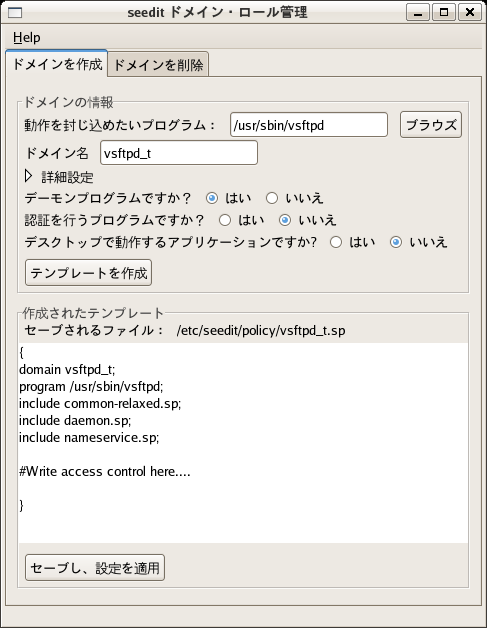
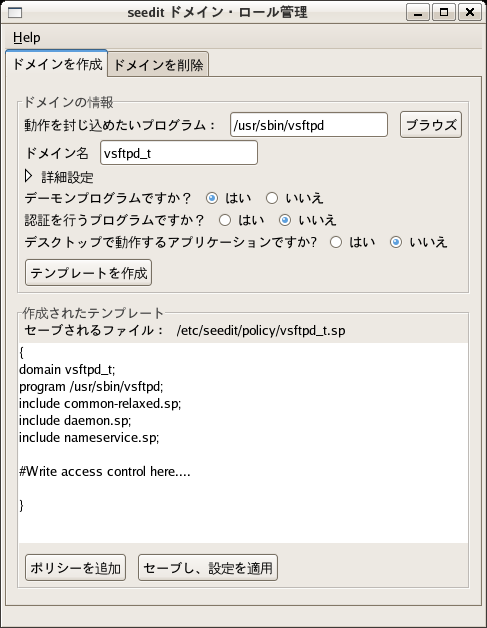
=

Changed region(s): [[0.0616, 0.8774, 0.5852, 0.9379]]

diff --git a/seedit-gui/seedit/ui/GUICommon.py b/seedit-gui/seedit/ui/GUICommon.py
@@ -489,10 +489,13 @@ class insertPolicyWindow(seeditCommon):
         def getInsertPoint(self,textBuffer):
             buf = textBuffer
             iter = buf.get_start_iter()
-            lineno=0
+            
             while not iter.is_end():
-                iter.set_line(lineno)
-                lineno=lineno+1
+                iter.forward_char()
+                char = iter.get_char()
+                if char == '}':
+                    return iter
+            return None
                 
                            
 	def addCallBack(self,widget,data):
@@ -511,7 +514,11 @@ class insertPolicyWindow(seeditCommon):
 			return
 		else:
 			buf = self.mTextBuffer
-			buf.insert_at_cursor(str)
+                        iter = self.getInsertPoint(buf)
+                        if iter:
+                            buf.insert(iter,str)
+                        else:
+                            buf.insert_at_cursor(str)
 			self.mWindow.destroy()
 	
 	def __init__(self,parent,textBuffer):
